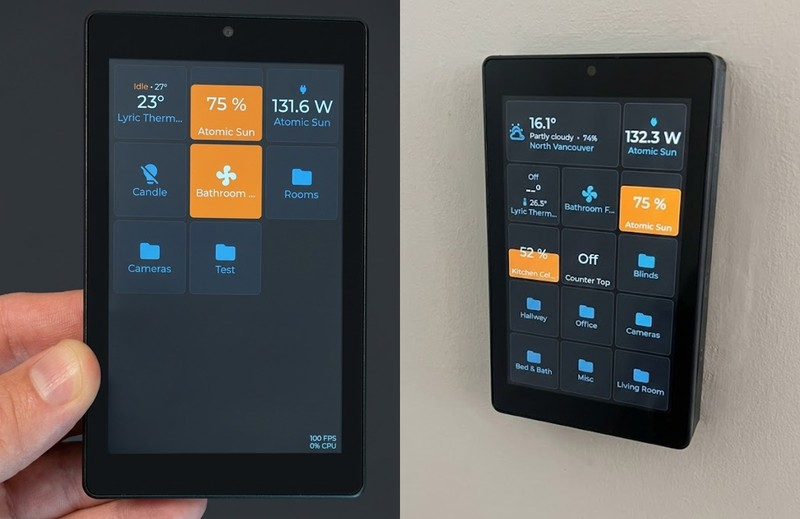
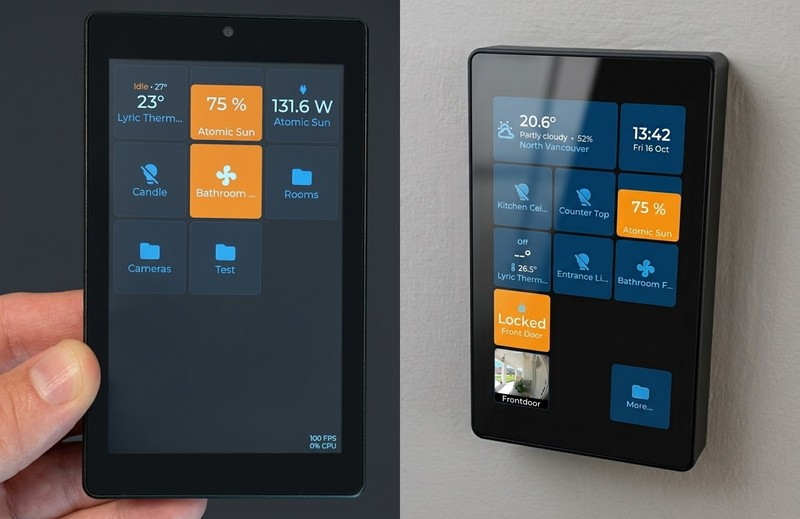
Light tiles: a double tap on a light that dims opens the light panel
The page subscribes the color modes of every light to tell.

diff --git a/components/ui/src/panel.cpp b/components/ui/src/panel.cpp
@@ -82,6 +82,7 @@ struct State {
     lv_coord_t screen_width = 0;
     core::TileIndex tile = core::kNone;
     core::EntityIndex entity = core::kNone;
+    bool light = false; // the light panel, else the panel of the tile's kind
     lv_obj_t *name = nullptr;
     std::string shown_name;
 };
@@ -201,6 +202,21 @@ void on_root_delete(lv_event_t *)
     lock_panel::forget();
     picture_panel::forget();
     weather_panel::forget();
+}
+
+// A light tile gets the light panel with `dimmer`, or when its light dims: a supported color mode
+// other than onoff, or a reported level. A light without `dimmer` that only switches has the
+// sensor panel with its timeline.
+bool light_panel_for(const core::Tile &tile, const core::EntityState &state)
+{
+    if (tile.kind != core::TileKind::Light) {
+        return false;
+    }
+    if (tile.dimmer || state.brightness >= 0 || state.last_brightness >= 0) {
+        return true;
+    }
+    return std::any_of(state.color_modes.begin(), state.color_modes.end(),
+                       [](const auto &mode) { return mode != "onoff"; });
 }
 
 } // namespace
@@ -521,7 +537,9 @@ void build(lv_obj_t *parent, core::TileIndex tile, bool appear)
         // opened by a tap: from above the screen; built again after a turn: in place
         place(appear ? 0 : kShown);
     }
-    const bool light = kind == core::TileKind::Light && layout.tiles[tile].dimmer;
+    // chosen once: update() fills the panel that was built
+    const bool light = light_panel_for(layout.tiles[tile], dashboard::state(g.entity));
+    g.light = light;
     // the sensor panel's frame: no options, the control takes the whole width
     const bool compact = !light && kind != core::TileKind::Climate && kind != core::TileKind::Lock;
     Frame frame = frame_of(body, width, height, light || kind == core::TileKind::Climate, compact, dialog);
@@ -586,8 +604,8 @@ void update(core::EntityIndex entity)
         g.shown_name = name;
         t::line_text(g.name, name.c_str());
     }
-    // the same choice as build(): a light without dimmer has the sensor panel
-    if (tile.kind == core::TileKind::Light && tile.dimmer) {
+    // the panel build() chose
+    if (g.light) {
         light_panel::update();
     } else if (tile.kind == core::TileKind::Climate) {
         climate_panel::update();

diff --git a/components/hass_protocol/include/hc/hass_protocol/protocol.hpp b/components/hass_protocol/include/hc/hass_protocol/protocol.hpp
@@ -9,8 +9,8 @@
 //
 //   {"0":{"s":"on","b":180},"1":{"s":"heat","t":21.5,"c":20.8,"a":"heating"}}
 //
-// Which fields an entity gets follows from its tiles on the page (a light without `dimmer` does
-// not need its color modes, a tile with its own name not the friendly_name). The fields of the open
+// Which fields an entity gets follows from its tiles on the page (a sensor with `decimals` does
+// not need its rounded state, a tile with its own name not the friendly_name). The fields of the open
 // panel are added while it is open. Template and decoder read the same table, so they cannot
 // drift apart.
 

diff --git a/host/tests/protocol_test.cpp b/host/tests/protocol_test.cpp
@@ -63,7 +63,7 @@ TEST(protocol_fields_follow_the_tile)
 {
     Layout layout;
     Tile plain = entity_tile(layout, "light.lamp");
-    CHECK(fields_of(plain, false) == (bit(Field::State) | bit(Field::Brightness)));
+    CHECK(fields_of(plain, false) == (bit(Field::State) | bit(Field::Brightness) | bit(Field::ColorModes)));
     plain.dimmer = true;
     CHECK(fields_of(plain, false) == (bit(Field::State) | bit(Field::Brightness) | bit(Field::ColorModes)));
     CHECK((fields_of(plain, true) & bit(Field::EffectList)) != 0);

diff --git a/components/hass_protocol/src/page.cpp b/components/hass_protocol/src/page.cpp
@@ -337,8 +337,9 @@ FieldMask fields_of(const core::Tile &tile, bool panel)
         }
         break;
     case TileKind::Light:
-        // a light without `dimmer` shows its level while it is on
-        fields |= tile.dimmer ? kDimmer : bit(Field::Brightness);
+        // a light without `dimmer` shows its level while it is on; the color modes tell its double
+        // tap whether it opens the light panel
+        fields |= kDimmer;
         if (panel) {
             fields |= kLightPanel;
         }

diff --git a/docs/TODO.md b/docs/TODO.md
@@ -741,7 +741,7 @@ Home Assistant values (2026-10-07, running on the T4 against your Home Assistant
   the unit, the name).
 - `hass_protocol` (new, pure, host tested): one field table (code, attribute, kind) drives the
   template and the decoder. The fields come from the tiles of the page: a tile with its own name
-  does not fetch the `friendly_name`, a light without `dimmer` only its state and brightness, a sensor with
+  does not fetch the `friendly_name`, a light without `dimmer` only its state, brightness and color modes, a sensor with
   `decimals` no rounded state; the open panel adds its fields. Result as an object or as text.
   `call_service` messages for all intents (toggle, press, `turn_on` for scene and script, level,
   temperature, modes, effect, color, color temperature), checked against the domain.
@@ -1324,6 +1324,10 @@ panel left of the power button.
 - [x] Your report: the panel of a double-tapped light had no icon and no state. `panel::update` sent
       every light tile to the light panel's update, which has nothing for a plain light; it now picks
       the panel as `build` does (dimmer or not).
+- [x] Your report (2026-10-16): the double tap on a plain light tile of a dimmable light opened the
+      sensor graph. `panel::build` now gives a light tile the light panel when it has `dimmer` or its
+      light dims (a color mode other than `onoff`, or a reported level); the page subscribes the color
+      modes of every light for that. Confirmed by you.
 - [x] Climate graph on the P4 with the Lyric thermostat: 70 points over 24 h, checked over the console.
 - [x] Confirmed by you on the P4 (2026-10-15): the timeline of a switch after a double tap, the light
       panel's button, the climate graph (the console's virtual taps are too slow for the 300 ms

diff --git a/docs/architecture.md b/docs/architecture.md
@@ -225,7 +225,7 @@ struct FieldSpec {
 
 * `hass_protocol::fields_of(tile, panel)` says which fields a tile needs: the state always, the
   `friendly_name` only without a name of the tile, icon and device class only without an icon,
-  the brightness for a light, the color modes only for a `dimmer`, the panel fields only while the panel is open.
+  the brightness and the color modes for a light, the panel fields only while the panel is open.
 * `hass_protocol` builds the template of the visible page from it, every value as
   `state_attr(e,'<attribute>')|tojson`, and decodes a result back into `EntityUpdate`s, from the
   same table.
@@ -378,7 +378,7 @@ Tile format, details (decided 2026-10-07):
 
   | Domain | Tile | Tap |
   | --- | --- | --- |
-  | `light` | without `dimmer`: switch; with `dimmer: true`: level fill | toggle after the double-tap window, double tap opens the timeline; with `dimmer`: drag sets the level, double tap toggles, tap opens the light panel (with a history button) |
+  | `light` | without `dimmer`: switch; with `dimmer: true`: level fill | toggle after the double-tap window, double tap opens the timeline (the light panel when the light dims); with `dimmer`: drag sets the level, double tap toggles, tap opens the light panel (with a history button) |
   | `switch`, `input_boolean`, `fan`, `automation` | switch | toggle |
   | `button`, `input_button`, `scene`, `script` | button | press, `turn_on` for scene and script |
   | `climate` | climate; two rows tall it has the `+`/`-` bars | as before |

diff --git a/docs/ui/lvgl/lvgl-dashboard.md b/docs/ui/lvgl/lvgl-dashboard.md
@@ -139,7 +139,7 @@ did. Any other page change (a new layout, turning the display) has no slide.
 
 | Tile | Content, top to bottom | Tap |
 | --- | --- | --- |
-| switch, light without `dimmer` | icon (48 px), name; a light that is on and reports a level shows it under the icon ("44 %", the icon then 24 px) | toggles once the double-tap window (300 ms) has passed; a double tap opens the sensor panel with the on/off timeline ([lvgl-panels.md](lvgl-panels.md) section 4) |
+| switch, light without `dimmer` | icon (48 px), name; a light that is on and reports a level shows it under the icon ("44 %", the icon then 24 px) | toggles once the double-tap window (300 ms) has passed; a double tap opens the light panel when the light dims (a color mode other than `onoff`, or a reported level; [lvgl-panels.md](lvgl-panels.md) section 2), else the sensor panel with the on/off timeline (section 4) |
 | button, scene, script | icon (48 px), name | press / turn on |
 | sensor | icon (24 px), value with unit, name | opens the sensor panel with the history |
 | lock | icon (24 px), the state in words (`Locked`, `Unlocking`, `Jammed`), name | opens the lock panel; a tap on the tile never locks or unlocks |

diff --git a/README.md b/README.md
@@ -23,7 +23,7 @@ new boards: [docs/adding-a-board.md](docs/adding-a-board.md), open items:
   (target, modes, presets, fan, room temperature graph), sensor (history graph of 12 to 48 h; a
   timeline for on/off and other two-word states such as Detected/Clear), lock (lock, unlock, open,
   timeline), weather (current values, daily and hourly forecast). A double tap on a switch opens
-  its timeline.
+  its timeline, on a light that dims the light panel.
 - Camera tiles from Home Assistant's images or an MJPEG stream (go2rtc, Home Assistant), a full
   screen live view that comes back by itself after a dropped stream.
 - Edit mode on the screen: long press, drag tiles around, remove them, per orientation.

diff --git a/docs/ui/lvgl/lvgl-panels.md b/docs/ui/lvgl/lvgl-panels.md
@@ -233,5 +233,5 @@ scrolls, closing and reopening works.
 * The weather panel: `twice_daily` forecasts are not read; the icon of `partlycloudy` is the day
   one at night too (the entity's state has no sun position); a forecast has at most 8 days or 24
   hours (`core::kMaxForecastEntries`); rows that do not fit are left out.
-* The light panel opens only from a dimmer; a light without `dimmer` toggles on a tap. A long
-  press could open it (to decide).
+* The light panel opens from a dimmer on a tap, from a light without `dimmer` that dims on a
+  double tap (a light that only switches gets the sensor panel with its timeline).

diff --git a/docs/CHANGELOG.md b/docs/CHANGELOG.md
@@ -2,6 +2,8 @@
 
 ## 2026-10-16
 
+- Your report: a double tap on a plain light tile of a light that dims opens the light panel, not the sensor
+  graph (the page subscribes the color modes of every light). Confirmed by you.
 - Clock tile (`type: clock`, your request): digital or analog, 24 or 12 h, seconds, date, the device's time
   zone or `zone: Europe/London` (evaluated by core, not the C library); web editor, sample, 110 host tests.
   Confirmed by you on the JC3248W535.
